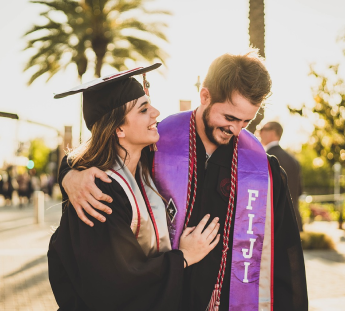
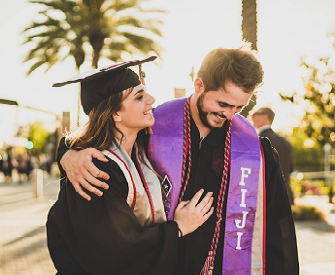
fixed the site's image gallery, woooo!

diff --git a/mesben.html b/mesben.html
@@ -56,7 +56,7 @@
           <div class="collapse navbar-collapse" id="mobilenav">
             <ul class="nav navbar-nav navbar-right">
               <li class="active nav-item">
-                <a href="" class="nav-link">Home</a>
+                <a href="/mesben.html" class="nav-link">Home</a>
               </li>
               <li class="dropdown">
                 <a
@@ -70,11 +70,10 @@
                   About Us <span class="caret"></span>
                 </a>
                 <ul class="dropdown-menu">
-                  <li><a href="#staff">Our Staff</a></li>
-                  <li><a href="#">Facilities</a></li>
-                  <li><a href="#google-map">Locate Us</a></li>
                   <li><a href="#history">History</a></li>
-                  <li><a href="#student-body">Students</a></li>
+                  <li><a href="#">Facilities</a></li>
+                  <li><a href="/mesben2.html#anthem">Our Anthem</a></li>
+                  <li><a href="#google-map">Locate Us</a></li>
                 </ul>
               </li>
               <li class="dropdown">
@@ -94,7 +93,7 @@
                 </a>
                 <ul class="dropdown-menu">
                   <li><a href="#contact-form">
-                    Get In Touch
+                    Reach out Via direct messaging
                   </a></li>
                   <li><a href="#">
                     <i class="fa fa-phone-alt"></i> +233 555 555 555
@@ -130,7 +129,7 @@
               <div class="carousel-caption">
                 <h2>The Right School for your Ward</h2>
                 <div class="carousel-btn-links">
-                  <a href="#" class="btn btn-primary">Enroll Now</a>
+                  <a href="/mesben2.html#enrolment-form" class="btn btn-primary">Enroll Now</a>
                   <a href="#" class="btn btn-success">Apply</a>
                 </div>
               </div>
@@ -143,7 +142,7 @@
               <div class="carousel-caption">
                 <h2>The Right School for your Ward</h2>
                 <div class="carousel-btn-links">
-                  <a href="#" class="btn btn-primary">Get Admission</a>
+                  <a href="#" class="btn btn-primary">Enroll Now</a>
                   <a href="#" class="btn btn-success">Apply</a>
                 </div>
               </div>
@@ -153,7 +152,7 @@
               <div class="carousel-caption">
                 <h2>The Right School for your Ward</h2>
                 <div class="carousel-btn-links">
-                  <a href="#" class="btn btn-primary">Get Admission</a>
+                  <a href="#" class="btn btn-primary">Enroll Now</a>
                   <a href="#" class="btn btn-success">Apply</a>
                 </div>
               </div>
@@ -268,7 +267,7 @@
                 <figcaption>
                   <h4>Our Staff</h4>
                   <p>Lorem ipsum dolor sit, amet consectetur adipisicing elit. Velit ad, eligendi commodi 
-                    reprehenderit pariatur placeat nulla deserunt. Deleniti, quod pariatur.</p>
+                    reprehenderit pariatur placeat <a href="#">See more</a> nulla deserunt. Deleniti, quod pariatur.</p>
                 </figcaption>
               </div>
             </div>  
@@ -287,8 +286,53 @@
             </div>  
           </section>
           <!-- Gallery -->
-          <h3 class="text-center">Gallery</h3>
-          <section class="gallery" id="gallery">
+          <section class="gallery">
+            <h3 class="text-center p-2 ">Gallery</h3>
+            <div class="row">
+              <div class="column">
+                <img src="/media/duo-grad-photo-deskto.png" alt="">
+                <img src="/media/certificate-mob.png" alt="">
+                <img src="/media/thrown-grad-hat-desktop.png" alt="">
+              </div>
+              <div class="column">
+                <img src="/media/grad-happiness-desktop.png" alt="">
+                <img src="/media/trophies.jpg" alt="">
+                <img src="/media/graduated-boy-desktop-red.png" alt="">
+              </div>
+              <div class="column">
+                <img src="/media/teacher-coaching-school-game.jpg" alt="">
+                <img src="/media/grad-speech-desktop.png" alt="">
+                <img src="/media/group-grad-girls-redrobes-mob.png" alt="">
+              </div>
+
+
+            <!--   <div class="col-xs-12 col-md-8 col-sm-6 img-box-1">
+                <img src="/media/grad-speech-desktop.png" alt="" class="img-responsive" id="img-">
+                </div>
+                <div class="col-xs-6 col-md-4 col-sm-3 img-box-2">
+                  <img src="/media/grad-happiness-desktop.png" alt="" class="img-responsive" id="img-">
+                </div>
+                <div class="col-xs-6 col-md-4 col-sm-3 img-box-3">
+                  <img src="/media/certificate-mob.png" alt="" class="img-responsive" id="img-">
+                </div>
+                <div class="col-xs-12 col-md-8 col-sm-6 img-box-4">
+                  <img src="/media/teacher-kids-grouplearning-desktop.png" alt="" class="img-responsive" id="img-">
+                </div>
+                <div class="col-xs-12 col-md-8 col-sm-6 img-box-5">
+                  <img src="/media/interactive-class-mob.png" alt="" class="img-responsive" id="img-">                
+                </div>
+                <div class="col-xs-6 col-md-4 col-sm-3 img-box-6">
+                  <img src="/media/duo-grad-photo-deskto.png" alt="" class="img-responsive" id="img-">
+                </div>
+                <div class="col-xs-6 col-md-4 col-sm-3 img-box-7">
+                  <img src="/media/medal-award-mob.png" alt="" class="img-responsive" id="img-">
+                </div>
+                <div class="col-xs-12 col-md-8 col-sm-6 img-box-8">
+                  <img src="/media/group-grad-girls-redrobes-mob.png" alt="" class="img-responsive" id="img-">
+                </div> -->
+            </div>
+          </section>
+          <!-- <section class="gallery" id="gallery">
             <div class="image-1">
             </div>
             <div class="image-2">
@@ -301,17 +345,14 @@
             </div>
             <div class="image-6">              
             </div>
-            <!-- <div class="image-7">
-            </div> -->
-
-          </section>
+          </section> -->
 
           <!-- ACADEMICS | BECE Ranking and analytics -->
           <section>
             <!-- Add background to this section and all other sections -->
             <h3 class="text-center">ACADEMICS</h3> 
             <div class="col-xs-6 col-md-3 text-center">
-              <div class="box box-1" style="background: lightcyan; padding: 4px 3px;">
+              <div class="box box-1" style="background: lightcyan;">
                 <i class="fa fa-chart-bar fa-3x"></i>
                 <h5 class="h4">BECE Ranking</h5>
                 <p>Lorem ipsum dolor sit amet consectetur adipisicing elit. Non fugit vitae nam perferendis! Esse, 
@@ -319,24 +360,28 @@
               </div>
             </div>
             <div class="col-xs-6 col-md-3 text-center">
-              <div class="box box-1" style="background: lightcyan; padding: 4px 3px;">
+              <div class="box box-1" style="background: lightcyan;">
                 <i class="fa fa-chart-line fa-3x"></i>
                 <h5 class="h4">Progress Report</h5>
                 <p>Lorem ipsum dolor sit amet consectetur adipisicing elit. Non fugit vitae nam perferendis! Esse, 
                   neque iusto? Laudantium eligendi debitis molestias.</p>
               </div>
             </div>
-            <div class="col-xs-6 col-md-3 text-center" style="background: lightcyan;">
-              <i class="fa fa-question-circle fa-3x"></i>
-              <h5 class="h4">Quizzes</h5>
-              <p>Lorem ipsum dolor sit amet consectetur adipisicing elit. Non fugit vitae nam perferendis! Esse, 
-                neque iusto? Laudantium eligendi debitis molestias.</p>
+            <div class="col-xs-6 col-md-3 text-center">
+              <div class="box box-1" style="background: lightcyan;">
+                <i class="fa fa-question-circle fa-3x"></i>
+                <h5 class="h4">Quizzes</h5>
+                <p>Lorem ipsum dolor sit amet consectetur adipisicing elit. Non fugit vitae nam perferendis! Esse, 
+                  neque iusto? Laudantium eligendi debitis molestias.</p>
+              </div>
             </div>
-            <div class="col-xs-6 col-md-3 text-center" style="background: lightcyan;">
-              <i class="fa fa-trophy fa-3x"></i>
-              <h5 class="h4">Competitions</h5>
-              <p>Lorem ipsum dolor sit amet consectetur adipisicing elit. Non fugit vitae nam perferendis! Esse, 
-                neque iusto? Laudantium eligendi debitis molestias.</p>
+            <div class="col-xs-6 col-md-3 text-center">
+              <div class="box box-1" style="background: lightcyan;">
+                <i class="fa fa-trophy fa-3x"></i>
+                <h5 class="h4">Competetions</h5>
+                <p>Lorem ipsum dolor sit amet consectetur adipisicing elit. Non fugit vitae nam perferendis! Esse, 
+                  neque iusto? Laudantium eligendi debitis molestias.</p>
+              </div>
             </div>
           </section>
           <!-- Prefects -->

diff --git a/mesben2.html b/mesben2.html
@@ -1,0 +1,117 @@
+<!DOCTYPE html>
+<html lang="en">
+  <head>
+    <meta charset="UTF-8" />
+    <meta name="viewport" content="width=device-width, initial-scale=1.0" />
+    <meta http-equiv="X-UA-Compatible" content="ie=edge" />
+    <meta
+      name="description"
+      content="Mesben Standard Academy is a Junior High School(JHS) located in Zenu-Ashiaman
+       in the city of Accra in the Greater Accra Region of Ghana."
+    />
+    <meta
+      name="keywords"
+      content="junior high school (JHS),educational institutions in Ghana, Schools in Ghana, teaching and learning, schools in Accra-Ghana,
+             basic school, primary, schools in Ashiaman, School in Accra, private school"
+    />
+    <meta name="theme-color" content="">   <!-- The theme color gives the colored browser effect (important) -->
+    <meta name="author" content="Seven Codes">
+    <meta property="og:title" content="Mesben Standard Academy">   <!-- og- stands for Open Graph tags -->
+    <meta property="og:type" content="website">
+    <meta property="og:url" content="https://www.mesbenacademy.edu/">
+    <meta property="og:image" content="">    <!-- This is the image that shows up when the site is Querried -->
+    <link rel="icon" href="" />    <!-- Icon shown in browser search tabs -->
+    <link rel="stylesheet" href="mesben.css" />
+    <link
+    rel="stylesheet"
+    href="https://maxcdn.bootstrapcdn.com/bootstrap/3.4.1/css/bootstrap.min.css"
+    />
+    <link rel="stylesheet" href="/icon monstr/iconmonstr-iconic-font.css" />
+    <link rel="stylesheet" href="/font awesome/css/all.css" />
+    <base href="mesben.html">   <!--  This tells all Links to begin with this URL(mesbenacademy.edu) -->
+    <base target="_self">
+    <title>Mesben Standard Academy</title>
+  </head>
+  <body>
+    <!-- Wrapper | contains all content -->
+    <div class="wrapper">
+      <!-- Nav -->
+      <nav class="navbar navbar-default navbar-fixed-top">
+        <div class="container">
+          <div class="navbar-header">
+            <a href="#" class="navbar-brand">
+              <i class="im im-graduation-hat"></i><strong> GREAT MESBEN</strong>
+            </a>
+            <button
+              class="navbar-toggle collapsed"
+              type="button"
+              data-toggle="collapse"
+              data-target="#mobilenav"
+            >
+              <span class="icon-bar"></span>
+              <span class="icon-bar"></span>
+              <span class="icon-bar"></span>
+            </button> 
+          </div>
+          <div class="collapse navbar-collapse" id="mobilenav">
+            <ul class="nav navbar-nav navbar-right">
+              <li class="active nav-item">
+                <a href="/mesben.html" class="nav-link">Home</a>
+              </li>
+              <li class="dropdown">
+                <a
+                  href="#"
+                  class="dropdown-toggle"
+                  data-toggle="dropdown"
+                  role="button"
+                  aria-haspopup="true"
+                  aria-expanded="false"
+                >
+                  About Us <span class="caret"></span>
+                </a>
+                <ul class="dropdown-menu">
+                  <li><a href="#history">History</a></li>
+                  <li><a href="#">Facilities</a></li>
+                  <li><a href="#staff">Our Staff</a></li>
+                  <li><a href="#google-map">Locate Us</a></li>
+                </ul>
+              </li>
+              <li class="dropdown">
+                <a href="#" class="dropdown-toggle" data-toggle="dropdown" role="button" aria-haspopup="true" aria-expanded="false">
+                  Academics <span class="caret"></span>
+                </a>
+                <ul class="dropdown-menu">
+                  <li><a href="#">BECE Ranking</a></li>
+                  <li><a href="#">Progress Report</a></li>
+                  <li><a href="#">Competetions</a></li>
+                </ul>
+              </li>
+              <li class="nav-item"><a href="#gallery" class="nav-link">Gallery</a></li>
+              <li class="dropdown">
+                <a href="#" class="dropdown-toggle" data-toggle="dropdown" role="button" aria-haspopup="true" aria-expanded="false">
+                contact <span class="caret"></span>
+                </a>
+                <ul class="dropdown-menu">
+                  <li><a href="#contact-form">
+                    Reach out Via direct messaging
+                  </a></li>
+                  <li><a href="#">
+                    <i class="fa fa-phone-alt"></i> +233 555 555 555
+                  </a></li>
+                  <li><a href="#">
+                    <i class="fa fa-envelope"></i> Mesben@gmail.com
+                  </a></li>
+                  <li><a href="#">
+                    <i class="fab fa-facebook"></i> Facebook
+                  </a></li>
+                  <li><a href="#">
+                    <i class="fab fa-whatsapp"></i> WhatsApp
+                  </a></li>
+                </ul>
+              </li>
+            </ul>
+          </div>
+        </div>
+      </nav>
+      <div class="enrolment-form" id="enrolment-form" ></div>
+    </div>

diff --git a/mesben.css b/mesben.css
@@ -28,9 +28,38 @@
 }
 
 
+.row {
+    display: flex;
+    flex-wrap: wrap;
+    width: 100%;
+    margin: 0 auto !important;
+}
+.row .column {
+    flex: 33.33%;
+    width: auto;
+    height: 100%;
+    overflow: hidden;
+    padding: 4px;
+}
+.gallery .row .column img {
+    width: 100%;
+    height: 100%;
+    margin-top: 2%;
+}
+/* Making image gallery responsive */
+@media (max-width: 992px) {
+    .row .column {
+        flex: 50%;
+    }
+}
+@media (max-width: 768px) {
+    .row .column {
+        flex: 100%;
+    }
+}
 
 /* GALLERY */
-section.gallery {
+/* section.gallery {
     position: relative;
     width: 96.5vw;
     height: 85vh;
@@ -86,10 +115,10 @@ section.gallery .image-6 {
     bottom: 2%;
     background: url(media/thrown-grad-hat-desktop.png) center/cover no-repeat;
 }
-
+ */
 
 /* Media Queries for mobile screen */
-@media (max-width: 768px) {
+/* @media (max-width: 768px) {
     section.gallery {
         position: relative;
         width: 96.5vw;
@@ -145,7 +174,7 @@ section.gallery .image-6 {
         bottom: 2%;
         background: url(media/interactive-class-mob.png) center/cover no-repeat;
     }
-}
+} */
 
 
 
